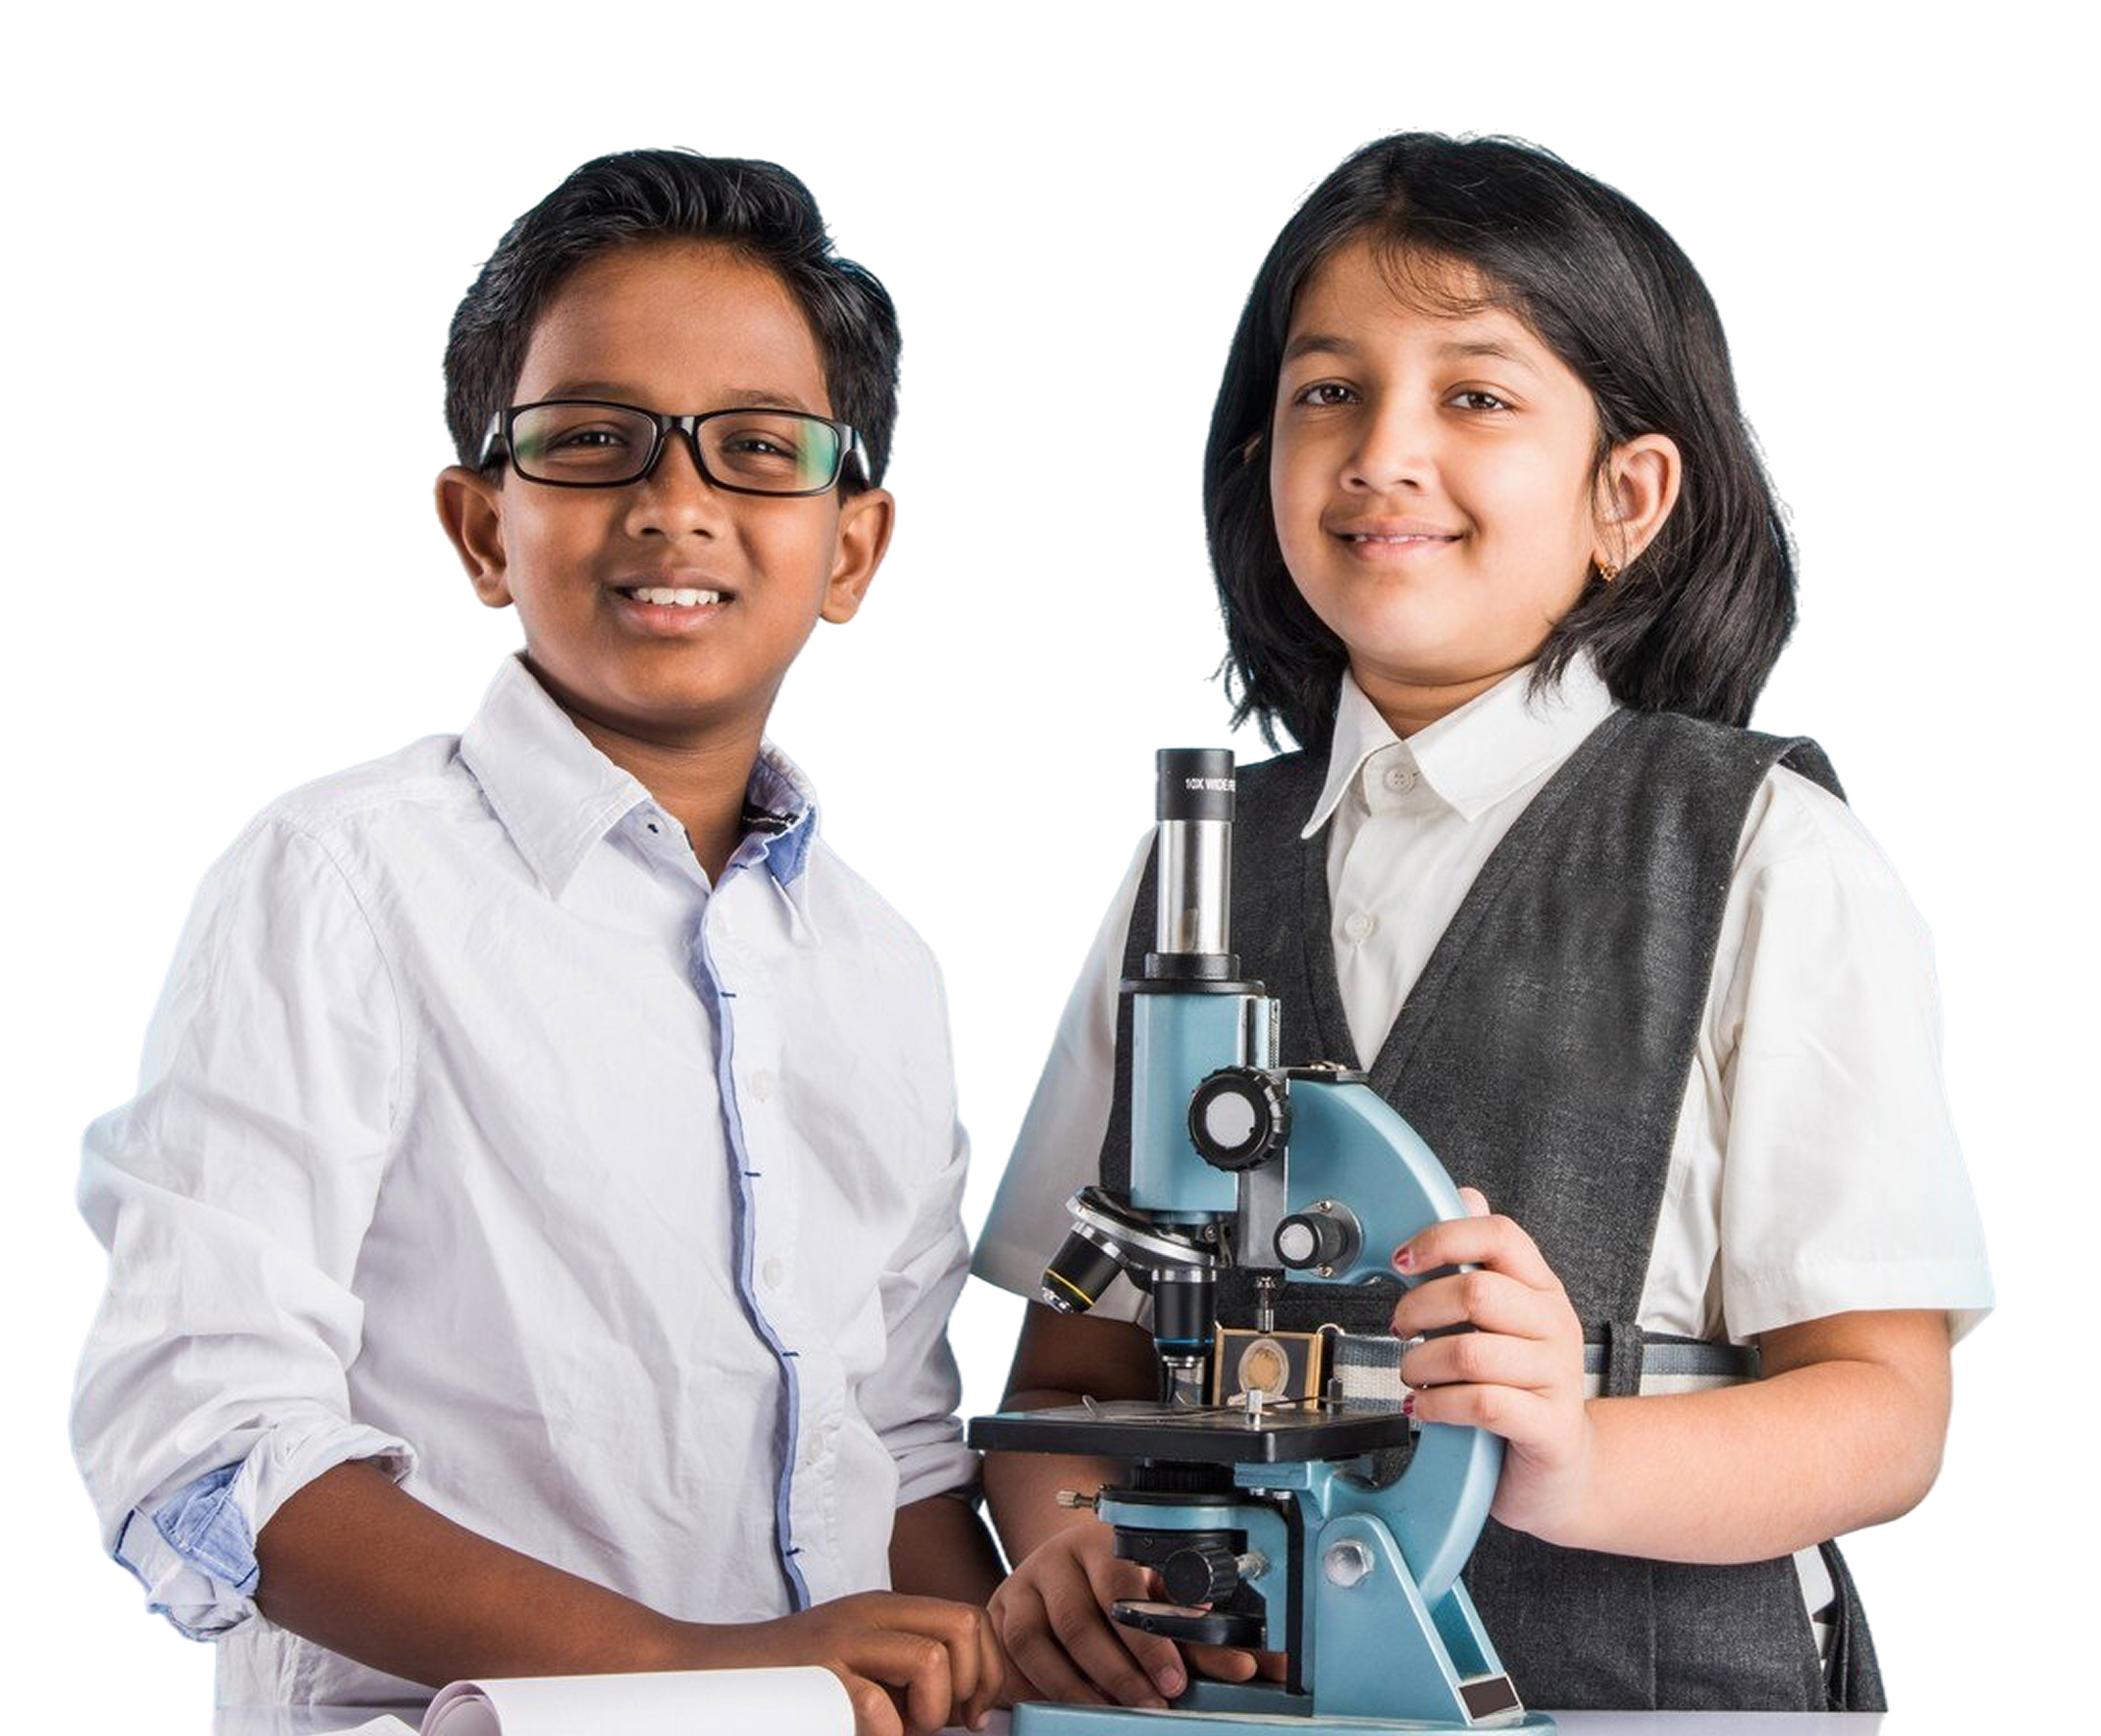
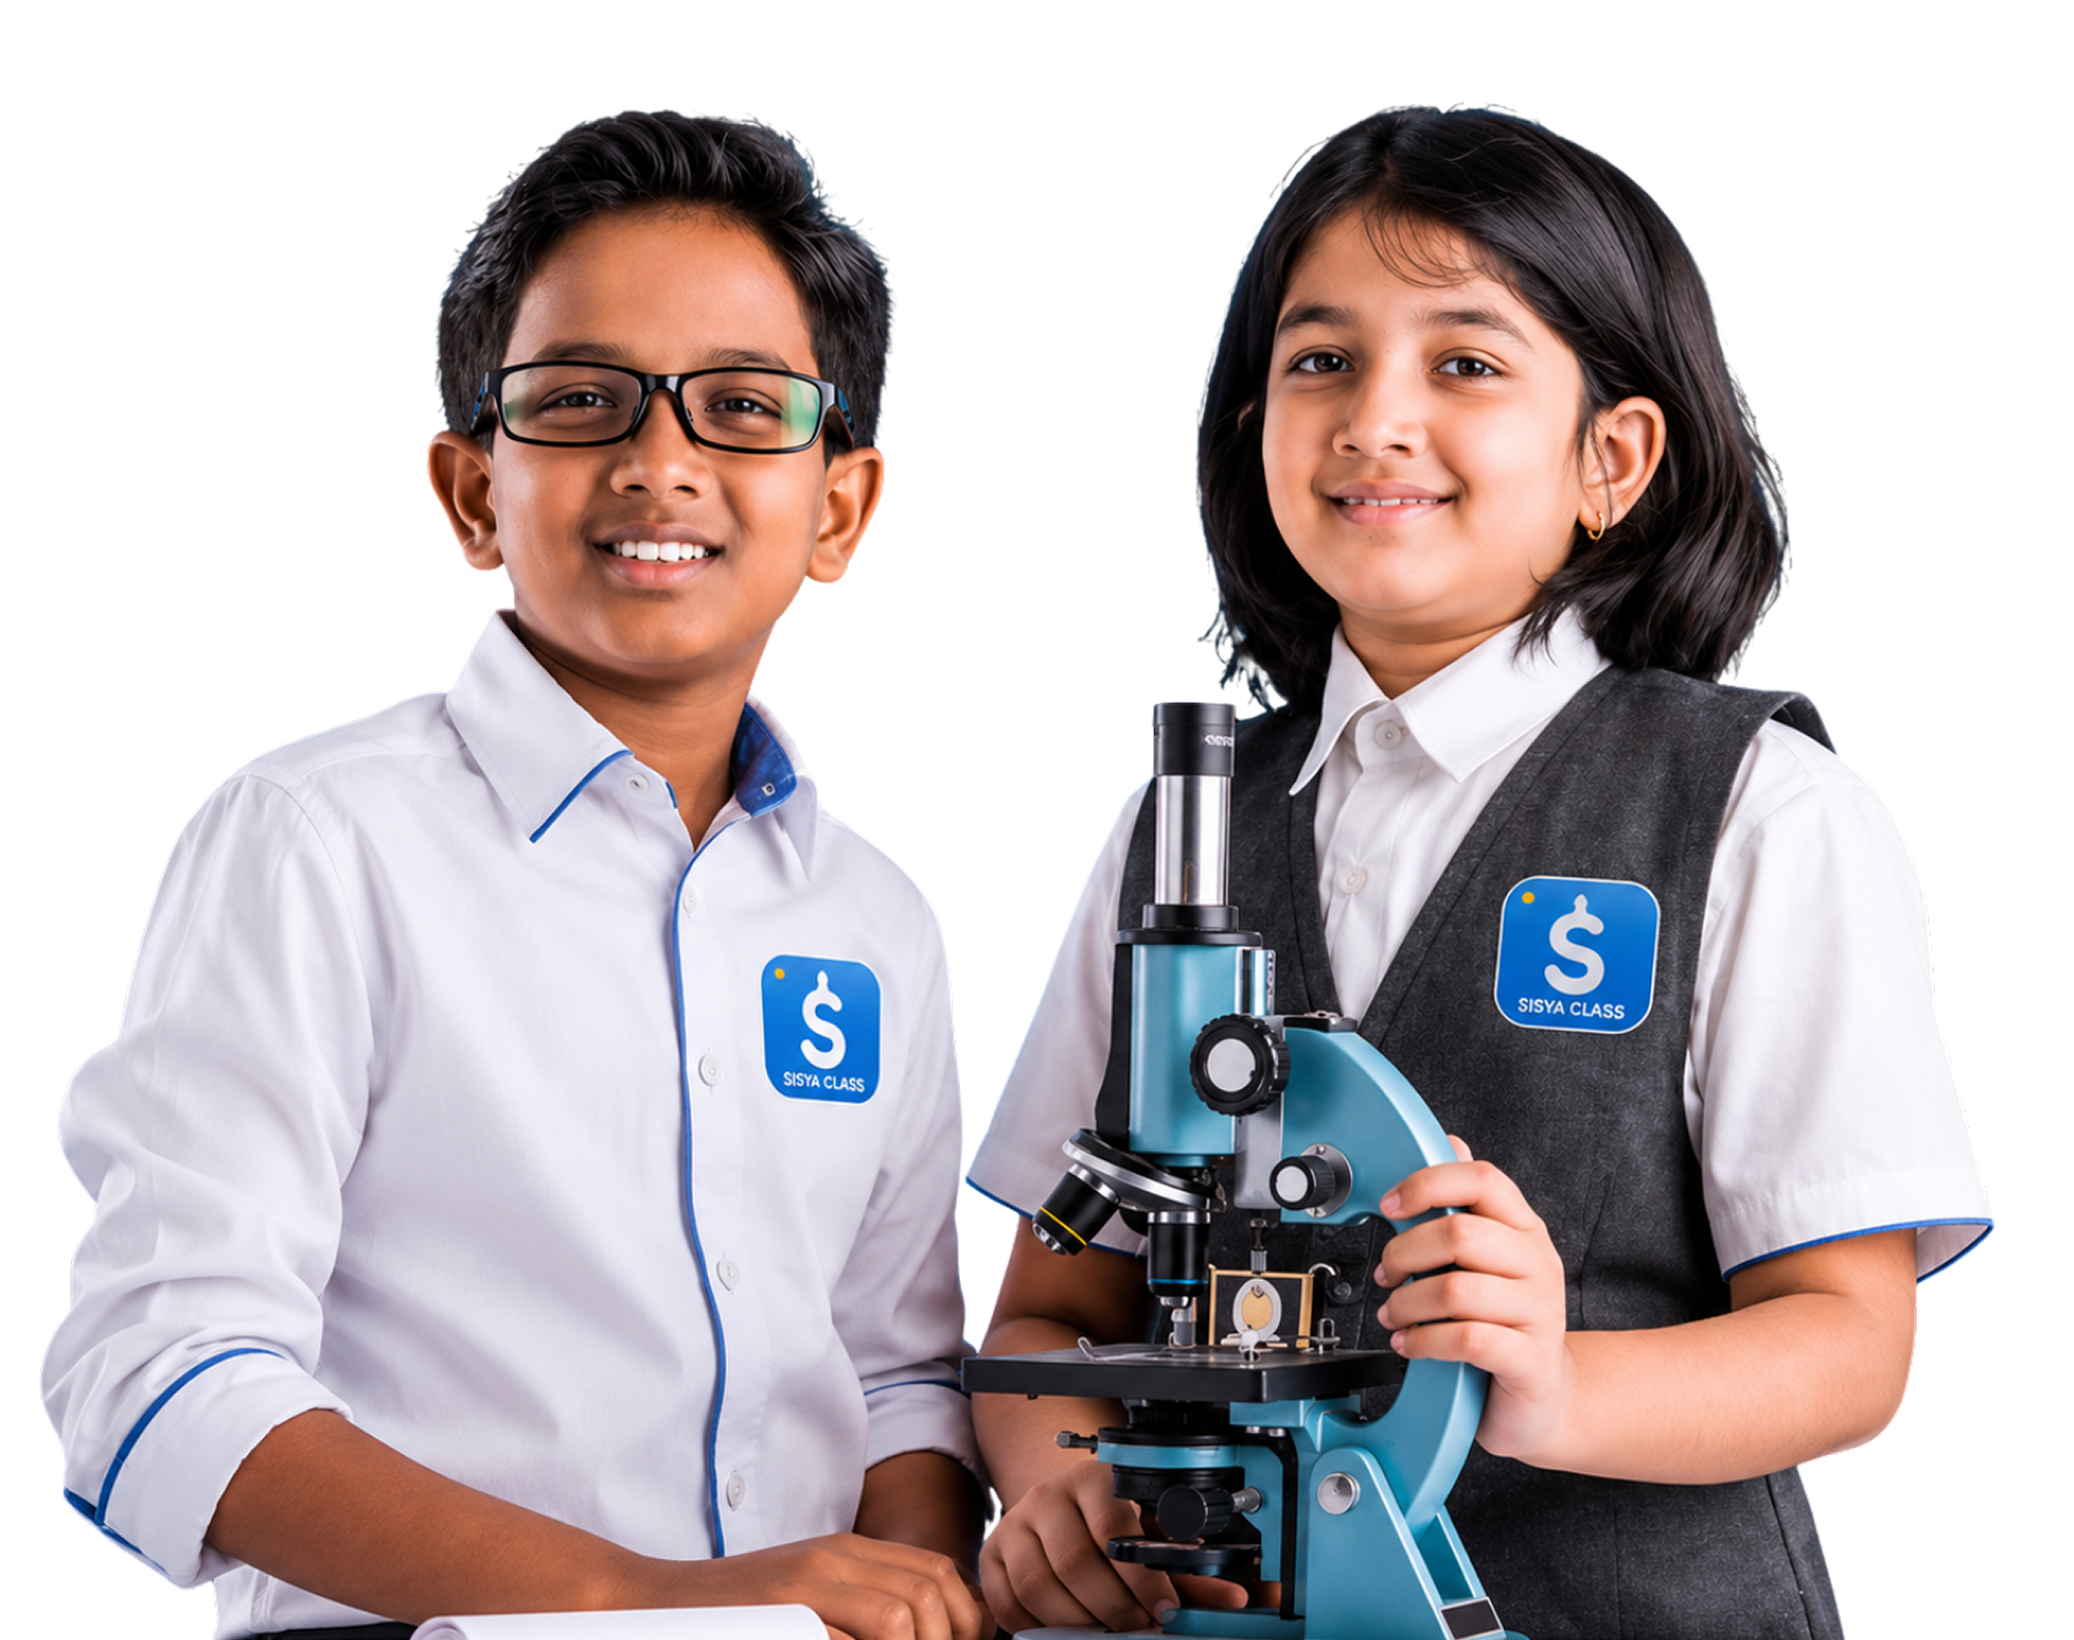
updating landing page changes

diff --git a/components/individualsubjectLP/sections/HeroSection.tsx b/components/individualsubjectLP/sections/HeroSection.tsx
@@ -68,7 +68,12 @@ export default function HeroSection({ onRegister, onGetCallback }: HeroSectionPr
   };
 
   return (
-    <section className="bg-[#01317a] text-white relative overflow-hidden pt-8 pb-0 md:py-10 min-h-[420px] md:min-h-[500px]">
+        <section
+        className="text-white relative overflow-hidden pt-8 pb-0 md:py-10 min-h-[420px] md:min-h-[500px] bg-cover bg-center"
+        style={{
+          backgroundImage: "url('/individualsubjectLP/Backgroundinherosection.png')",
+        }}
+      >
       <div className="max-w-6xl mx-auto flex flex-col md:flex-row justify-between items-center md:items-stretch gap-0 md:gap-6 min-h-[380px] relative px-4">
 
         {/* ── Left Content ── */}
@@ -78,7 +83,7 @@ export default function HeroSection({ onRegister, onGetCallback }: HeroSectionPr
           transition={{ duration: 0.8 }}
           className="flex-1 p-0 md:p-4 flex flex-col justify-center text-center md:text-left"
         >
-          <div className="inline-flex items-center justify-center w-[115px] h-[34px] border border-white rounded-full text-white text-[13px] font-medium mb-6 mx-auto lg:mx-0">
+          <div className="inline-flex items-center justify-center w-[140px] h-[34px] border border-white rounded-full bg-yellow-300 text-black text-[13px] font-medium mb-6 mx-auto lg:mx-0">
             Toppers Program
           </div>
 
@@ -129,7 +134,7 @@ export default function HeroSection({ onRegister, onGetCallback }: HeroSectionPr
           <motion.div
             animate={{ y: [0, -10, 0] }}
             transition={{ duration: 3.5, repeat: Infinity, ease: "easeInOut" }}
-            className="hidden md:block absolute top-[10%] left-[-10%] z-20"
+            className="hidden md:block absolute top-[10%] left-[-2%] z-20"
           >
             <Image src="/ltc/cube.png" alt="cube" width={80} height={80} className="pointer-events-none opacity-80" />
           </motion.div>
